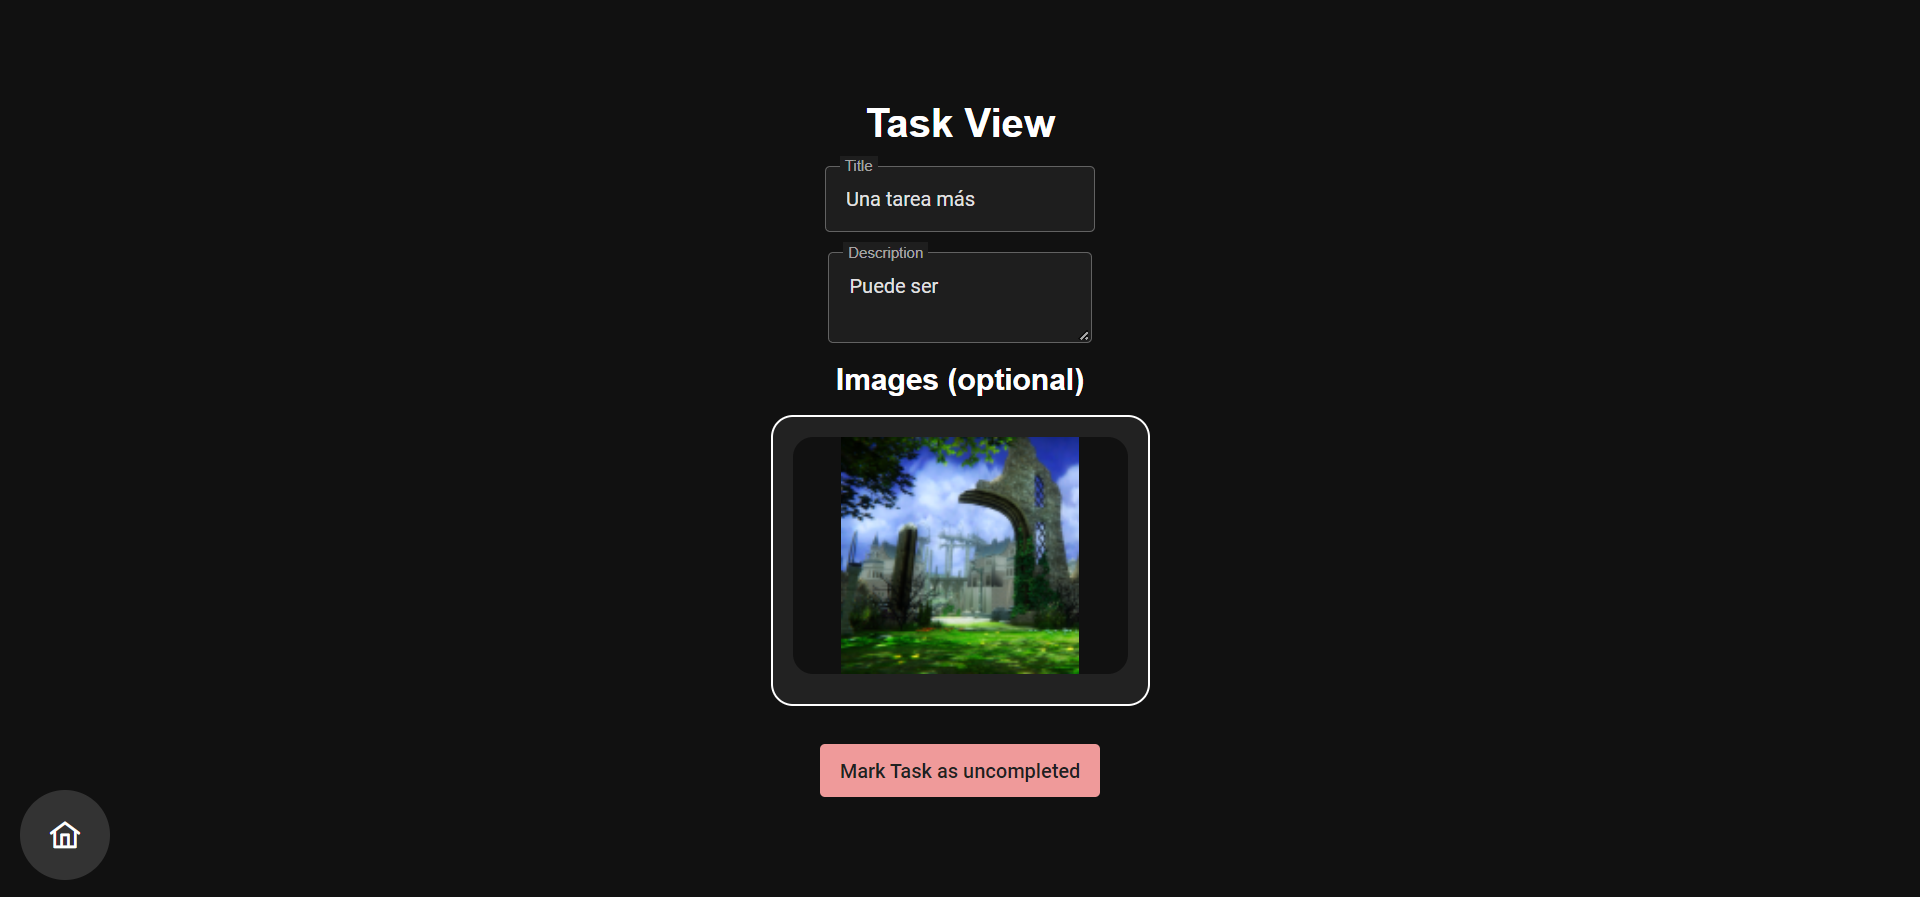
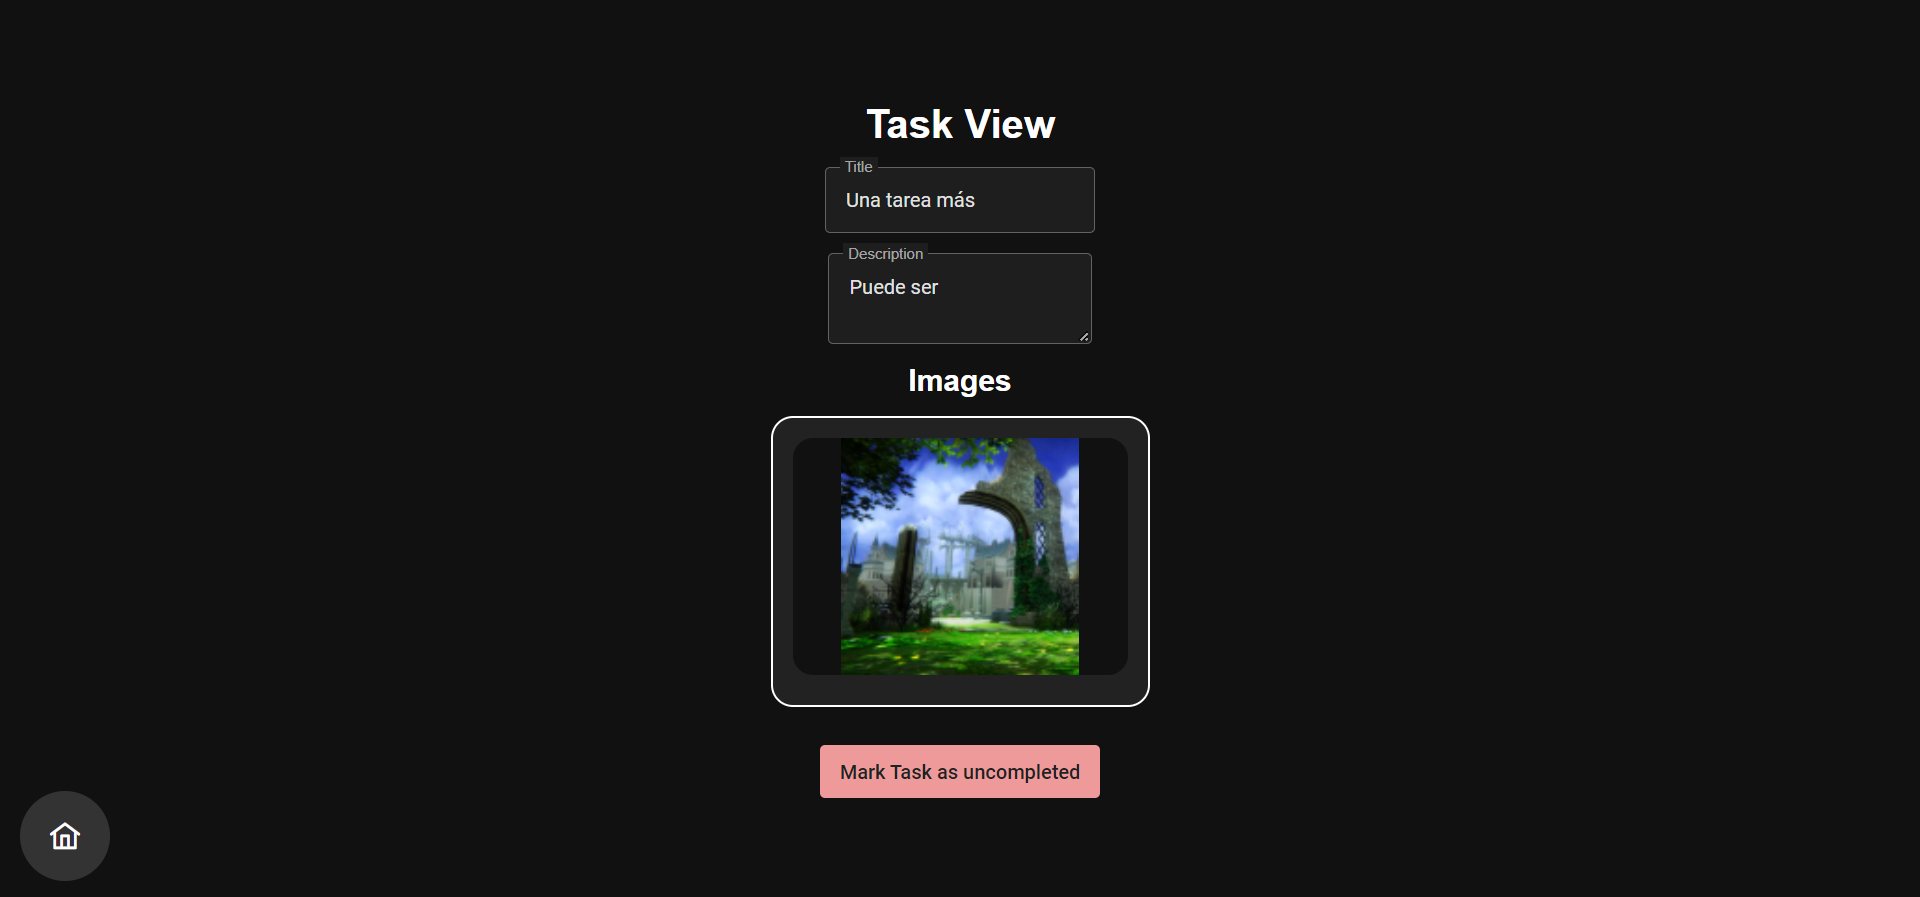
Update

diff --git a/src/app/pages/user-tasks/watch/user-task.component.html b/src/app/pages/user-tasks/watch/user-task.component.html
@@ -9,7 +9,7 @@
         <textarea disabled type="email" pInputTextarea [(ngModel)]="task.description"></textarea>
         <label for="float-input">Description</label>
     </span>
-    <h2>Images (optional)</h2>
+    <h2>Images</h2>
     <div class="images">
         <div class="image" *ngFor="let img of task.images" class="image">
             <img draggable="false" [src]="img.src" alt>
